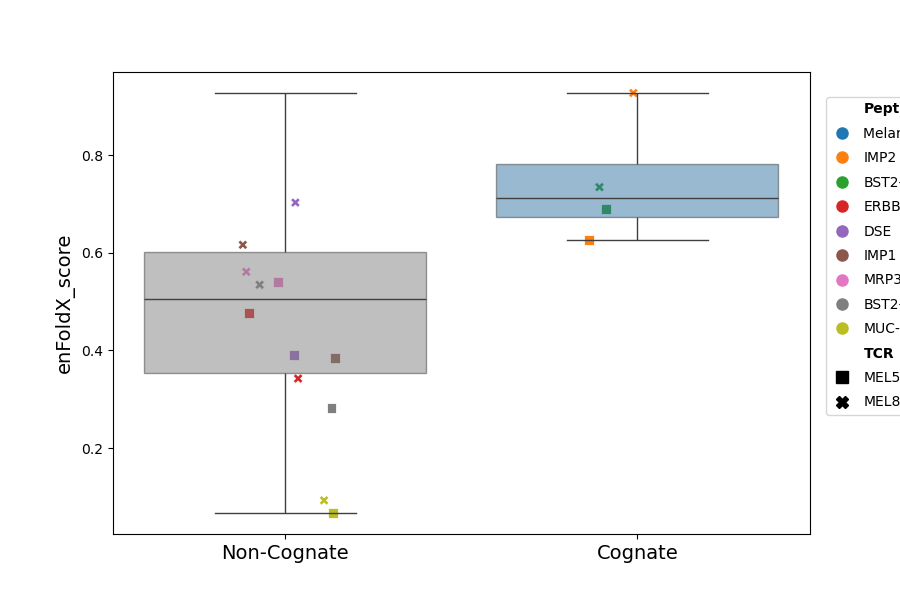
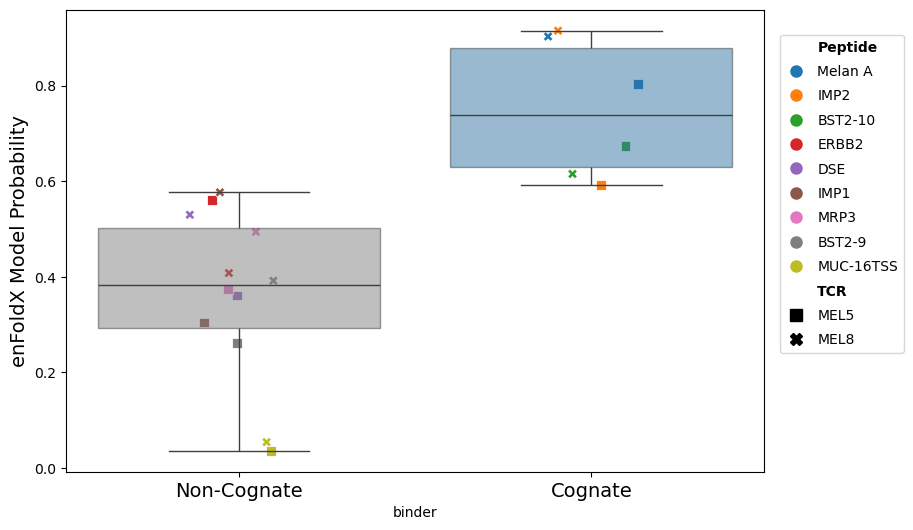
update figure; fix plddt issue and write comment

diff --git a/scripts/extract_features_server.py b/scripts/extract_features_server.py
@@ -127,7 +127,8 @@ def parse_af3_results(
                     )
                     results[f"min_plddt_{chain_mapper.get(chain1)}"] = np.min(sub_plddt)
                     results[f"max_plddt_{chain_mapper.get(chain1)}"] = np.max(sub_plddt)
-                    results[f"std_plddt_{chain_mapper.get(chain1)}"] = np.std(sub_plddt)
+                    # The following line is a bug (max instead of std) but needs to be fixed in pre-trained models before it can be fixed here
+                    results[f"std_plddt_{chain_mapper.get(chain1)}"] = np.max(sub_plddt)
 
         # CDR3 Metrics
         residues_alpha = [
@@ -227,7 +228,7 @@ def main(args):
             seq_df[col].notna().all() and (seq_df[col] != "").all()
         ), f"{col} contains missing values"
 
-    assert os.path.exists(args.zip_file), f"{rgs.zip_file} not found"
+    assert os.path.exists(args.zip_file), f"{args.zip_file} not found"
 
     samples = [
         0,

diff --git a/scripts/extract_features.py b/scripts/extract_features.py
@@ -107,7 +107,8 @@ def parse_af3_results(
                     results[f"avg_plddt_{chain1}"] = np.mean(sub_plddt)
                     results[f"min_plddt_{chain1}"] = np.min(sub_plddt)
                     results[f"max_plddt_{chain1}"] = np.max(sub_plddt)
-                    results[f"std_plddt_{chain1}"] = np.std(sub_plddt)
+                    # The following line is a bug (max instead of std) but needs to be fixed in pre-trained models before it can be fixed here
+                    results[f"std_plddt_{chain1}"] = np.max(sub_plddt)
 
         # CDR3 Metrics
         residues_alpha = [int(idx) for idx in np.where(residue_chain_ids == "A")[0]]